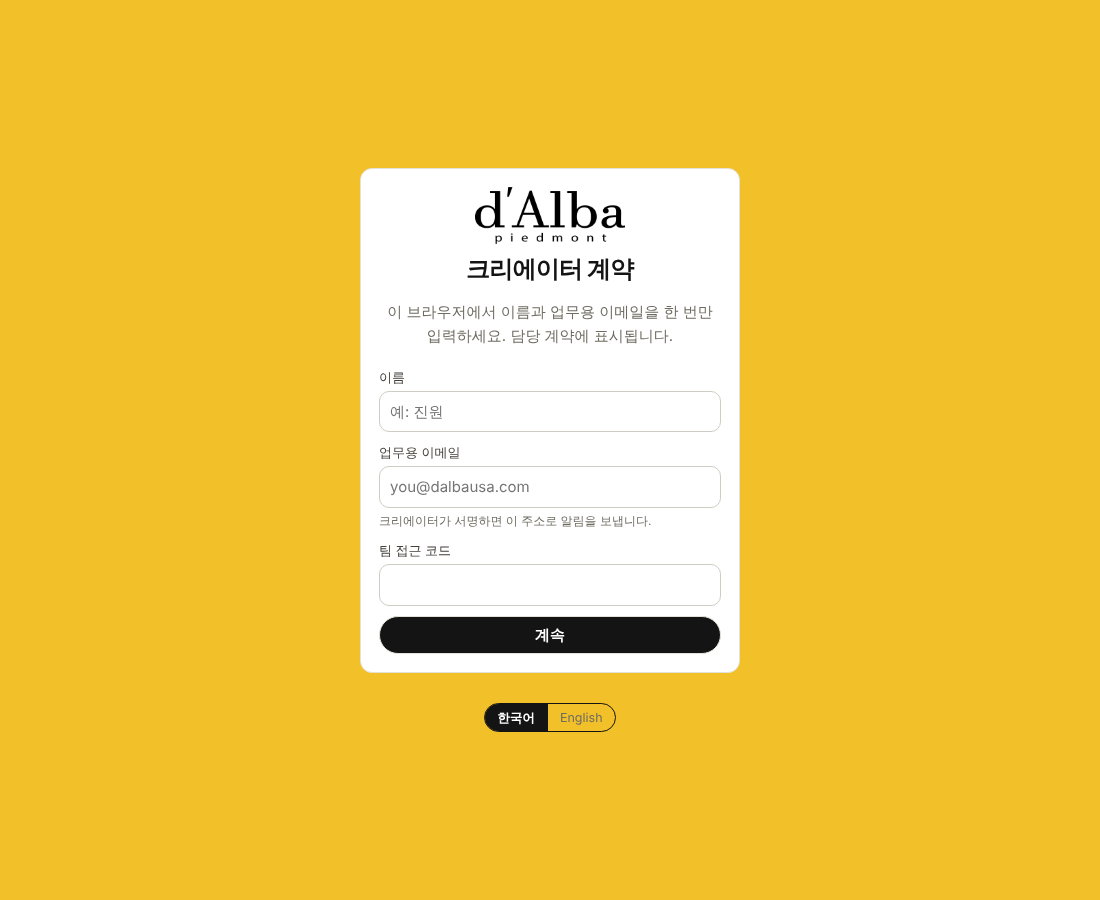
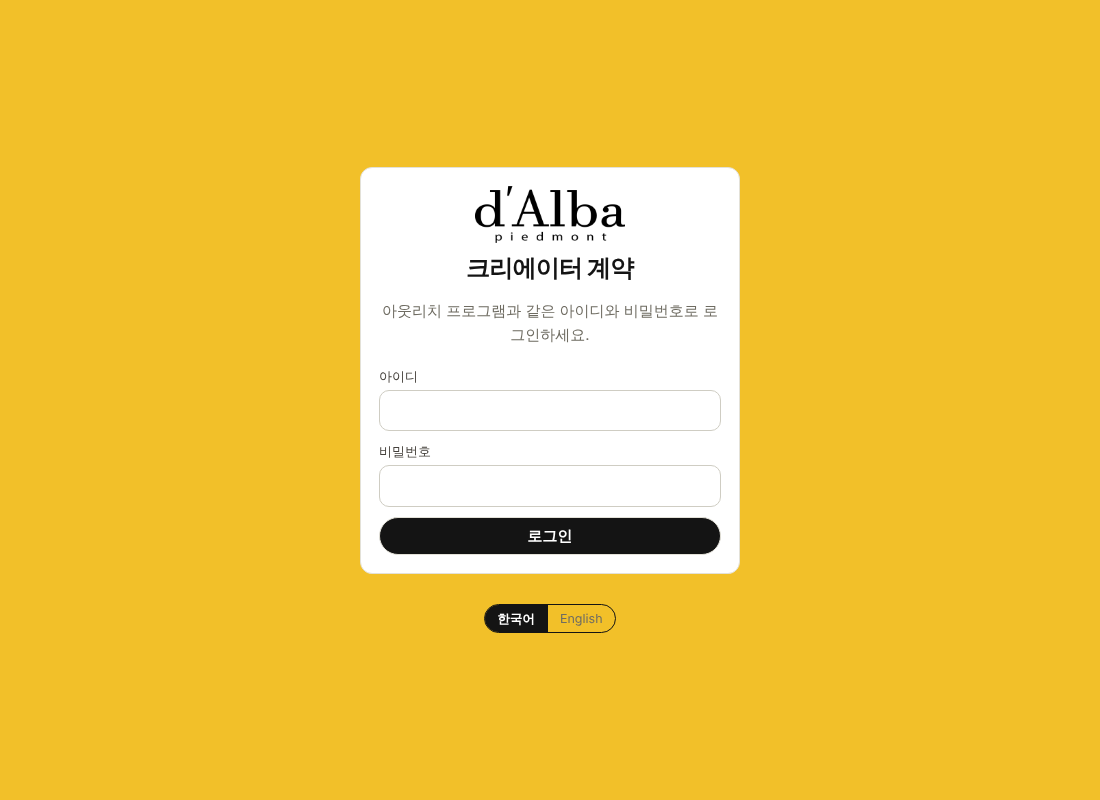
creator-contracts: sign in with the outreach tool's staff accounts
When NW_ACCOUNTS is set, managers sign in with ID and password, their name,
email and title come from the account, and sign notifications are sent from
their own NAVER WORKS mailbox to themselves. Without it the previous
name + email + access code entry still applies.

Claude-Session: https://claude.ai/code/session_01XyDvtqEBKUqopMLnXtUDZg

Changed region(s): [[0.3091, 0.1875, 0.68, 0.8125]]

diff --git a/creator-contracts/src/lib/session.ts b/creator-contracts/src/lib/session.ts
@@ -1,12 +1,13 @@
 import crypto from "node:crypto";
 import { cookies } from "next/headers";
 import { redirect } from "next/navigation";
+import { accountsEnabled, findByEmail } from "./accounts";
 
 // No accounts: a manager enters the shared team access code and their name
 // once per browser. The name is what "My deals" and the activity log use.
 
 const COOKIE = "dalba_manager";
-export type Manager = { name: string; email: string };
+export type Manager = { name: string; email: string; title?: string };
 
 const emailDomains = () =>
   (process.env.ALLOWED_EMAIL_DOMAINS || "dalbausa.com,dalba.com")
@@ -37,7 +38,7 @@ function safeEqual(a: string, b: string): boolean {
 
 /** True when an access code is configured. Production refuses to run without one. */
 export const accessCodeSet = () => !!process.env.APP_KEY;
-export const misconfigured = () => !process.env.APP_KEY && process.env.VERCEL_ENV === "production";
+export const misconfigured = () => !accountsEnabled() && !process.env.APP_KEY && process.env.VERCEL_ENV === "production";
 
 export function checkAccessCode(code: string): boolean {
   if (misconfigured()) return false;
@@ -45,14 +46,16 @@ export function checkAccessCode(code: string): boolean {
   return safeEqual(code.trim(), process.env.APP_KEY);
 }
 
+const SESSION_DAYS = Number(process.env.SESSION_DAYS || 7);
+
 export async function startSession(name: string, email: string) {
-  const payload = Buffer.from(JSON.stringify({ name, email })).toString("base64url");
+  const payload = Buffer.from(JSON.stringify({ name, email, exp: Date.now() + SESSION_DAYS * 864e5 })).toString("base64url");
   (await cookies()).set(COOKIE, `${payload}.${sign(payload)}`, {
     httpOnly: true,
     sameSite: "lax",
     secure: process.env.NODE_ENV === "production",
     path: "/",
-    maxAge: 60 * 60 * 24 * 180,
+    maxAge: 60 * 60 * 24 * (accountsEnabled() ? SESSION_DAYS : 180),
   });
 }
 
@@ -66,9 +69,16 @@ export async function currentUser(): Promise<Manager | null> {
   const [payload, mac] = raw.split(".");
   if (!payload || !mac || !safeEqual(mac, sign(payload))) return null;
   try {
-    const { name, email } = JSON.parse(Buffer.from(payload, "base64url").toString("utf8"));
-    // Sessions from before emails were collected are asked to enter again.
-    return typeof name === "string" && name && typeof email === "string" && email ? { name, email } : null;
+    const { name, email, exp } = JSON.parse(Buffer.from(payload, "base64url").toString("utf8"));
+    if (typeof name !== "string" || !name || typeof email !== "string" || !email) return null;
+    if (accountsEnabled()) {
+      // Staff-account mode: the session must come from an ID/password sign-in, be
+      // unexpired, and the account must still exist (removing it blocks access at once).
+      if (typeof exp !== "number" || Date.now() > exp) return null;
+      const account = findByEmail(email);
+      return account ? { name: account.name || account.id, email: account.email, title: account.title } : null;
+    }
+    return { name, email };
   } catch {
     return null;
   }

diff --git a/creator-contracts/src/lib/accounts.ts b/creator-contracts/src/lib/accounts.ts
@@ -1,0 +1,64 @@
+import crypto from "node:crypto";
+
+// Staff accounts, shared with the outreach tool: the same NW_ACCOUNTS
+// environment variable, so a manager signs in here with the same ID and
+// password, and removing their line there blocks them here too.
+//
+// Format 1 (one per line):  id|loginPassword|name|worksEmail|appPassword|title
+// Format 2 (JSON):          [{"id","pw","name","email","appPassword","title"}]
+//
+// The NAVER WORKS app password never leaves the server.
+
+export type Account = { id: string; pw: string; name: string; email: string; appPassword: string; title: string };
+
+export function parseAccounts(): Account[] {
+  const raw = (process.env.NW_ACCOUNTS || "").trim();
+  if (!raw) return [];
+  const str = (v: unknown) => String(v ?? "").trim();
+  let list: Account[];
+  if (raw[0] === "[" || raw[0] === "{") {
+    try {
+      const arr = JSON.parse(raw);
+      list = (Array.isArray(arr) ? arr : [arr]).map((a) => ({
+        id: str(a.id || a.loginId).toLowerCase(),
+        pw: String(a.pw || a.password || a.loginPw || ""),
+        name: str(a.name),
+        email: str(a.email).toLowerCase(),
+        appPassword: String(a.appPassword || a.appPw || a.smtpPassword || ""),
+        title: str(a.title),
+      }));
+    } catch {
+      return [];
+    }
+  } else {
+    list = raw
+      .split(/\r?\n/)
+      .map((l) => l.trim())
+      .filter((l) => l && l[0] !== "#")
+      .map((l) => {
+        const f = l.split("|").map((s) => s.trim());
+        return { id: (f[0] || "").toLowerCase(), pw: f[1] || "", name: f[2] || "", email: (f[3] || "").toLowerCase(), appPassword: f[4] || "", title: f[5] || "" };
+      });
+  }
+  return list.filter((a) => a.id && a.pw && a.email && a.appPassword);
+}
+
+export const accountsEnabled = () => parseAccounts().length > 0;
+
+function safeEqual(a: string, b: string): boolean {
+  return crypto.timingSafeEqual(crypto.createHash("sha256").update(a).digest(), crypto.createHash("sha256").update(b).digest());
+}
+
+export function findByLogin(id: string, pw: string): Account | null {
+  const wanted = String(id || "").trim().toLowerCase();
+  if (!wanted || !pw) return null;
+  // Walk the whole list so a wrong ID takes as long as a wrong password.
+  let found: Account | null = null;
+  for (const a of parseAccounts()) if (a.id === wanted && safeEqual(a.pw, pw)) found = a;
+  return found;
+}
+
+export function findByEmail(email: string | null | undefined): Account | null {
+  const e = String(email || "").trim().toLowerCase();
+  return e ? (parseAccounts().find((a) => a.email === e) ?? null) : null;
+}

diff --git a/creator-contracts/src/lib/notify.ts b/creator-contracts/src/lib/notify.ts
@@ -1,17 +1,49 @@
+import nodemailer from "nodemailer";
+import { findByEmail } from "./accounts";
 import { bridgeConfigured, callBridge } from "./bridge";
 
-// Email to the manager when their creator signs, sent through the Apps Script bridge.
+// Notification email to a manager. If the manager has a staff account, it is
+// sent from their own NAVER WORKS mailbox to themselves (so it is never treated
+// as spam). Otherwise it falls back to the Google Apps Script bridge.
 
-export const emailConfigured = bridgeConfigured;
+const SMTP_HOST = process.env.NW_SMTP_HOST || "smtp.worksmobile.com";
+const SMTP_PORT = Number(process.env.NW_SMTP_PORT || 465);
+
+export function emailRoute(to: string): "works" | "bridge" | "off" {
+  if (findByEmail(to)) return "works";
+  return bridgeConfigured() ? "bridge" : "off";
+}
+
+export async function sendToManager(to: string, subject: string, html: string): Promise<"works" | "bridge" | "off"> {
+  const account = findByEmail(to);
+  if (account) {
+    const transporter = nodemailer.createTransport({
+      host: SMTP_HOST,
+      port: SMTP_PORT,
+      secure: SMTP_PORT === 465,
+      requireTLS: SMTP_PORT !== 465,
+      auth: { user: account.email, pass: account.appPassword },
+      connectionTimeout: 15000,
+      socketTimeout: 20000,
+    });
+    await transporter.sendMail({ from: { name: "d'Alba Creator Contracts", address: account.email }, to: account.email, subject, html });
+    return "works";
+  }
+  if (bridgeConfigured() && to) {
+    await callBridge({ action: "email", to, subject, html });
+    return "bridge";
+  }
+  return "off";
+}
 
 const esc = (s: string) => s.replace(/[&<>"]/g, (c) => ({ "&": "&amp;", "<": "&lt;", ">": "&gt;", '"': "&quot;" })[c]!);
 
 export async function notifySigned(opts: { to: string; manager: string; handle: string; signer: string; dealUrl: string }): Promise<void> {
-  if (!emailConfigured() || !opts.to) return;
+  if (!opts.to) return;
   const subject = `[d'Alba] @${opts.handle} 계약서 서명 완료 / signed`;
   const html = `<p>${esc(opts.manager)}님,</p>
 <p><b>@${esc(opts.handle)}</b> (${esc(opts.signer)}) 님이 계약서와 인보이스에 서명했습니다.<br>다음 단계: 서명본을 내려받아 회사 직인을 받으세요.</p>
 <p><b>@${esc(opts.handle)}</b> (${esc(opts.signer)}) has signed the agreement and invoice.<br>Next: download the signed PDF and get the company stamp.</p>
 <p><a href="${esc(opts.dealUrl)}">${esc(opts.dealUrl)}</a></p>`;
-  await callBridge({ action: "email", to: opts.to, subject, html });
+  await sendToManager(opts.to, subject, html);
 }

diff --git a/creator-contracts/src/app/enter/page.tsx b/creator-contracts/src/app/enter/page.tsx
@@ -1,12 +1,25 @@
 import { redirect } from "next/navigation";
 import LangToggle from "@/components/LangToggle";
 import { getT } from "@/lib/lang";
+import { accountsEnabled, findByLogin } from "@/lib/accounts";
 import { accessCodeSet, checkAccessCode, currentUser, misconfigured, startSession, workEmail } from "@/lib/session";
 
 export const dynamic = "force-dynamic";
 
+async function signIn(fd: FormData) {
+  "use server";
+  const account = findByLogin(String(fd.get("id") || ""), String(fd.get("pw") || ""));
+  if (!account) {
+    await new Promise((r) => setTimeout(r, 600)); // slow down guessing
+    redirect("/enter?error=login");
+  }
+  await startSession(account.name || account.id, account.email);
+  redirect("/");
+}
+
 async function enter(fd: FormData) {
   "use server";
+  if (accountsEnabled()) redirect("/enter");
   const name = String(fd.get("name") || "").trim().replace(/\s+/g, " ").slice(0, 60);
   if (!name) redirect("/enter?error=name");
   const email = workEmail(String(fd.get("email") || ""));
@@ -22,11 +35,25 @@ export default async function EnterPage({ searchParams }: { searchParams: Promis
   const { t, lang } = await getT();
   return (
     <main className="login">
-      <form className="card login-card" action={enter}>
+      <form className="card login-card" action={accountsEnabled() ? signIn : enter}>
         {/* eslint-disable-next-line @next/next/no-img-element */}
         <img src="/logo.png" alt="d'Alba" className="login-logo" />
         <h1>{t("Creator Contracts")}</h1>
-        {misconfigured() ? (
+        {accountsEnabled() ? (
+          <>
+            <p className="muted">{t("Sign in with the same ID and password as the outreach tool.")}</p>
+            {error === "login" && <p className="alert alert-warn">{t("The ID or password is not correct.")}</p>}
+            <label className="field">
+              <span>{t("ID")}</span>
+              <input name="id" required autoComplete="username" autoCapitalize="none" />
+            </label>
+            <label className="field">
+              <span>{t("Password")}</span>
+              <input name="pw" type="password" required autoComplete="current-password" />
+            </label>
+            <button className="btn btn-primary btn-block">{t("Sign in")}</button>
+          </>
+        ) : misconfigured() ? (
           <p className="alert alert-warn">{t("The team access code is not configured yet.")}</p>
         ) : (
           <>

diff --git a/creator-contracts/src/lib/i18n.ts b/creator-contracts/src/lib/i18n.ts
@@ -143,6 +143,17 @@ const KO: Record<string, string> = {
   "Added to the work-request sheet": "업무 요청 시트에 추가",
 
   // connections
+  "Sign in with the same ID and password as the outreach tool.": "아웃리치 프로그램과 같은 아이디와 비밀번호로 로그인하세요.",
+  "The ID or password is not correct.": "아이디 또는 비밀번호가 올바르지 않습니다.",
+  ID: "아이디",
+  Password: "비밀번호",
+  "Sign in": "로그인",
+  "Sign out": "로그아웃",
+  "Sign notifications are sent from your own NAVER WORKS mailbox to yourself.": "서명 알림은 본인 네이버웍스 메일에서 본인에게 발송됩니다.",
+  "Sign notifications are sent from the shared Google account.": "서명 알림은 공용 구글 계정에서 발송됩니다.",
+  "Sign notifications are off for your account.": "이 계정은 서명 알림이 꺼져 있습니다.",
+  "Test email sent from your own NAVER WORKS mailbox to {email}.": "본인 네이버웍스 메일에서 {email} 주소로 테스트 메일을 보냈습니다.",
+  "Email is not connected.": "메일이 연결되어 있지 않습니다.",
   "The first email may land in your spam folder. Mark it as \"not spam\" once and later ones will reach your inbox.": "첫 알림 메일은 스팸함으로 갈 수 있습니다. 한 번만 \"스팸 아님\"으로 해제하면 이후에는 받은편지함으로 옵니다.",
   "Email not arriving?": "메일이 안 오나요?",
   "Check your spam folder. Open the email, choose \"not spam\", and add the sender to your contacts. After that, notifications go to your inbox.": "스팸함을 확인하세요. 메일을 열어 \"스팸 아님\"을 누르고 보낸 사람을 주소록에 추가하면, 이후 알림은 받은편지함으로 옵니다.",

diff --git a/creator-contracts/src/app/(app)/settings/actions.ts b/creator-contracts/src/app/(app)/settings/actions.ts
@@ -1,6 +1,7 @@
 "use server";
 
 import { callBridge } from "@/lib/bridge";
+import { sendToManager } from "@/lib/notify";
 import { requireUser } from "@/lib/session";
 
 type Result = { error: string } | { message: string };
@@ -10,13 +11,13 @@ export async function testBridge(what: "ping" | "email" | "row"): Promise<Result
   const user = await requireUser();
   try {
     if (what === "email") {
-      await callBridge({
-        action: "email",
-        to: user.email,
-        subject: "[d'Alba] 연결 테스트 / connection test",
-        html: "<p>크리에이터 계약 사이트의 알림 메일이 정상적으로 연결되었습니다.<br>Sign notifications from the creator contracts site are working.</p>",
-      });
-      return { message: "Test email sent to {email}." };
+      const route = await sendToManager(
+        user.email,
+        "[d'Alba] 연결 테스트 / connection test",
+        "<p>크리에이터 계약 사이트의 알림 메일이 정상적으로 연결되었습니다.<br>Sign notifications from the creator contracts site are working.</p>",
+      );
+      if (route === "off") return { error: "Email is not connected." };
+      return { message: route === "works" ? "Test email sent from your own NAVER WORKS mailbox to {email}." : "Test email sent to {email}." };
     }
     if (what === "row") {
       await callBridge({ action: "row", date: new Date().toISOString().slice(0, 10), requester: user.name, kind: "테스트", text: "연결 테스트 행입니다. 지워도 됩니다.", folder: "" });

diff --git a/creator-contracts/src/app/(app)/settings/page.tsx b/creator-contracts/src/app/(app)/settings/page.tsx
@@ -1,5 +1,6 @@
 import Link from "next/link";
 import { bridgeConfigured } from "@/lib/bridge";
+import { emailRoute } from "@/lib/notify";
 import { getT } from "@/lib/lang";
 import { requireUser } from "@/lib/session";
 import BridgeTest from "./BridgeTest";
@@ -22,7 +23,14 @@ export default async function SettingsPage() {
             ? t("Connected through Google Apps Script. Use the buttons below to check that it really works.")
             : t("Not connected yet. Sign emails and sheet rows are switched off.")}
         </p>
-        {bridgeConfigured() && <BridgeTest email={user.email} />}
+        <p className="small muted">
+          {emailRoute(user.email) === "works"
+            ? t("Sign notifications are sent from your own NAVER WORKS mailbox to yourself.")
+            : emailRoute(user.email) === "bridge"
+              ? t("Sign notifications are sent from the shared Google account.")
+              : t("Sign notifications are off for your account.")}
+        </p>
+        {(bridgeConfigured() || emailRoute(user.email) !== "off") && <BridgeTest email={user.email} />}
         <p className="alert alert-warn" style={{ marginTop: 14, marginBottom: 0 }}>
           <strong>{t("Email not arriving?")}</strong> {t("Check your spam folder. Open the email, choose \"not spam\", and add the sender to your contacts. After that, notifications go to your inbox.")}
         </p>

diff --git a/creator-contracts/src/app/(app)/layout.tsx b/creator-contracts/src/app/(app)/layout.tsx
@@ -4,6 +4,7 @@ import { LangProvider } from "@/components/Lang";
 import LangToggle from "@/components/LangToggle";
 import { getT } from "@/lib/lang";
 import { endSession, requireUser } from "@/lib/session";
+import { accountsEnabled } from "@/lib/accounts";
 
 export default async function AppLayout({ children }: { children: React.ReactNode }) {
   const user = await requireUser();
@@ -29,7 +30,7 @@ export default async function AppLayout({ children }: { children: React.ReactNod
               redirect("/enter");
             }}
           >
-            <button className="btn btn-ghost btn-sm">{t("Switch user")}</button>
+            <button className="btn btn-ghost btn-sm">{t(accountsEnabled() ? "Sign out" : "Switch user")}</button>
           </form>
         </div>
       </header>

diff --git a/creator-contracts/src/app/(app)/deals/[id]/page.tsx b/creator-contracts/src/app/(app)/deals/[id]/page.tsx
@@ -97,7 +97,7 @@ export default async function DealPage({ params }: { params: Promise<{ id: strin
             {money(f.fee, f.currency)}
             {f.commissionPct > 0 && ` + ${f.commissionPct}% ${t("commission")}`} · {t("{a} to {b}", { a: medDate(f.startDate), b: medDate(f.endDate) })} · {f.country} · {t("Manager")}: {deal.manager}
             {deal.manager_email && ` (${deal.manager_email})`}
-            {deal.manager !== user.name && !cancelled && (
+            {(deal.manager_email ? deal.manager_email !== user.email : deal.manager !== user.name) && !cancelled && (
               <>
                 {" "}
                 <ConfirmButton action={reassignToMe.bind(null, id)} className="linkish" confirm={t("Make yourself the manager of this deal?")}>

diff --git a/creator-contracts/src/app/(app)/page.tsx b/creator-contracts/src/app/(app)/page.tsx
@@ -31,7 +31,9 @@ export default async function Dashboard({ searchParams }: { searchParams: Promis
   const todoOnly = sp.todo === "1";
   const [all, linkBase] = await Promise.all([listDeals(), origin()]);
 
-  const scoped = all.filter((d) => scope === "all" || d.manager === user.name);
+  // "My deals" follows the email when the deal has one, so a renamed account keeps its deals.
+  const isMine = (d: Summary) => (d.manager_email ? d.manager_email === user.email : d.manager === user.name);
+  const scoped = all.filter((d) => scope === "all" || isMine(d));
   const active = scoped.filter((d) => !isDone(d));
   const mine = (d: Summary) => nextAction(d, d.vp).owner === "you";
   const perCreator = new Map<string, number>();

diff --git a/creator-contracts/src/lib/deals.ts b/creator-contracts/src/lib/deals.ts
@@ -76,6 +76,7 @@ export type Summary = Stamps & {
   id: string;
   secret: string;
   manager: string;
+  manager_email?: string;
   fields: Fields;
   custom: number;
   vp: { done: number; total: number };
